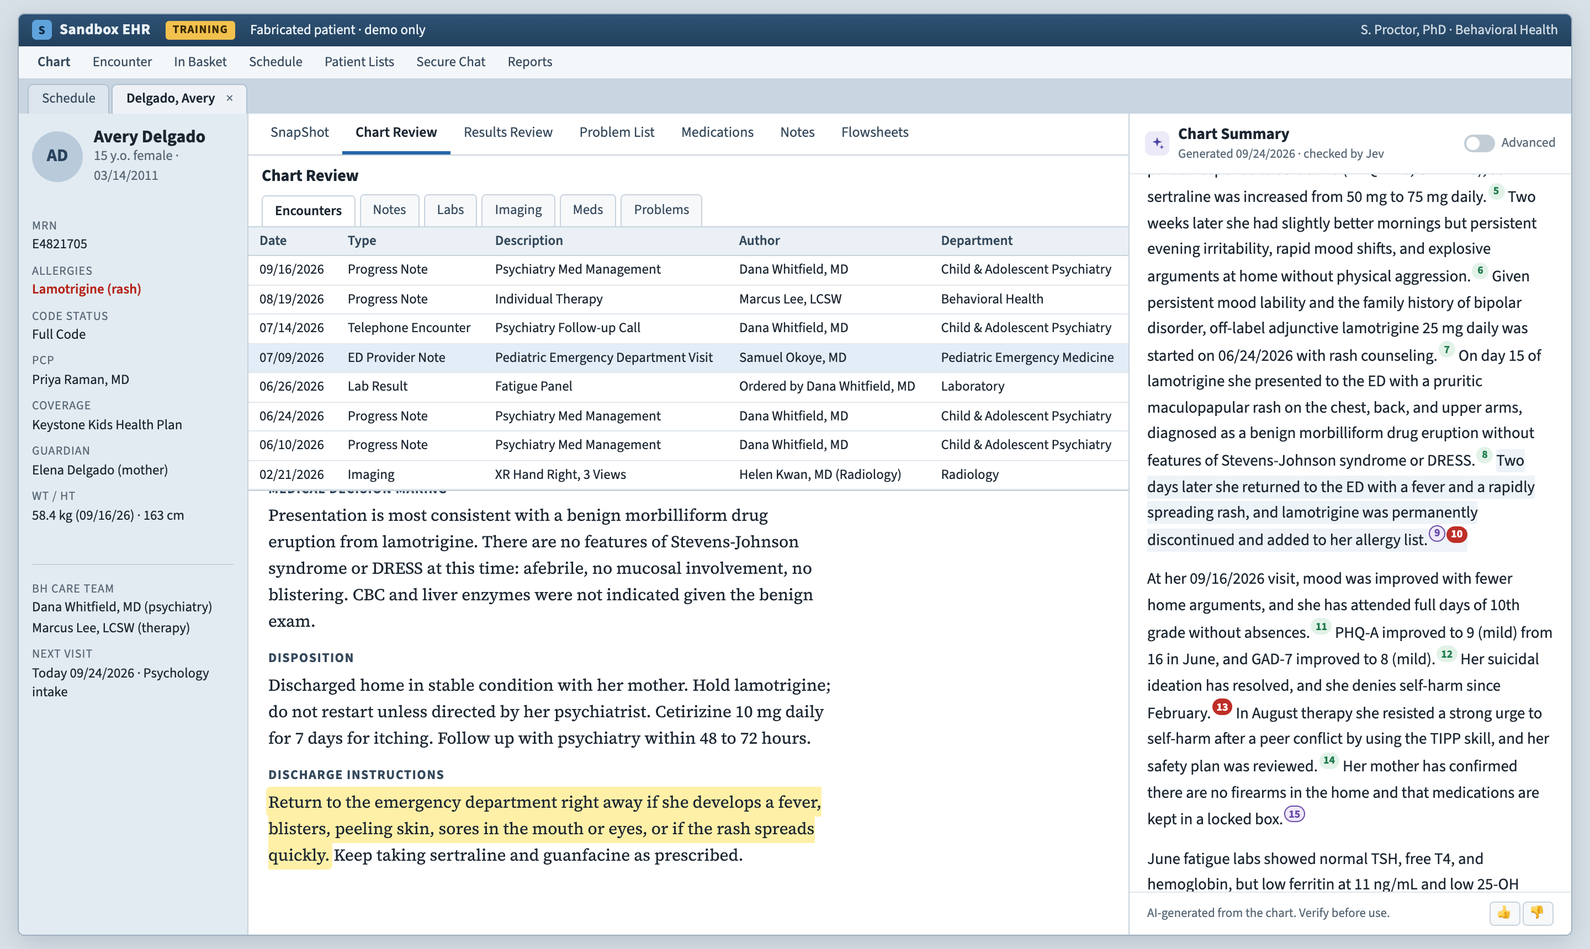
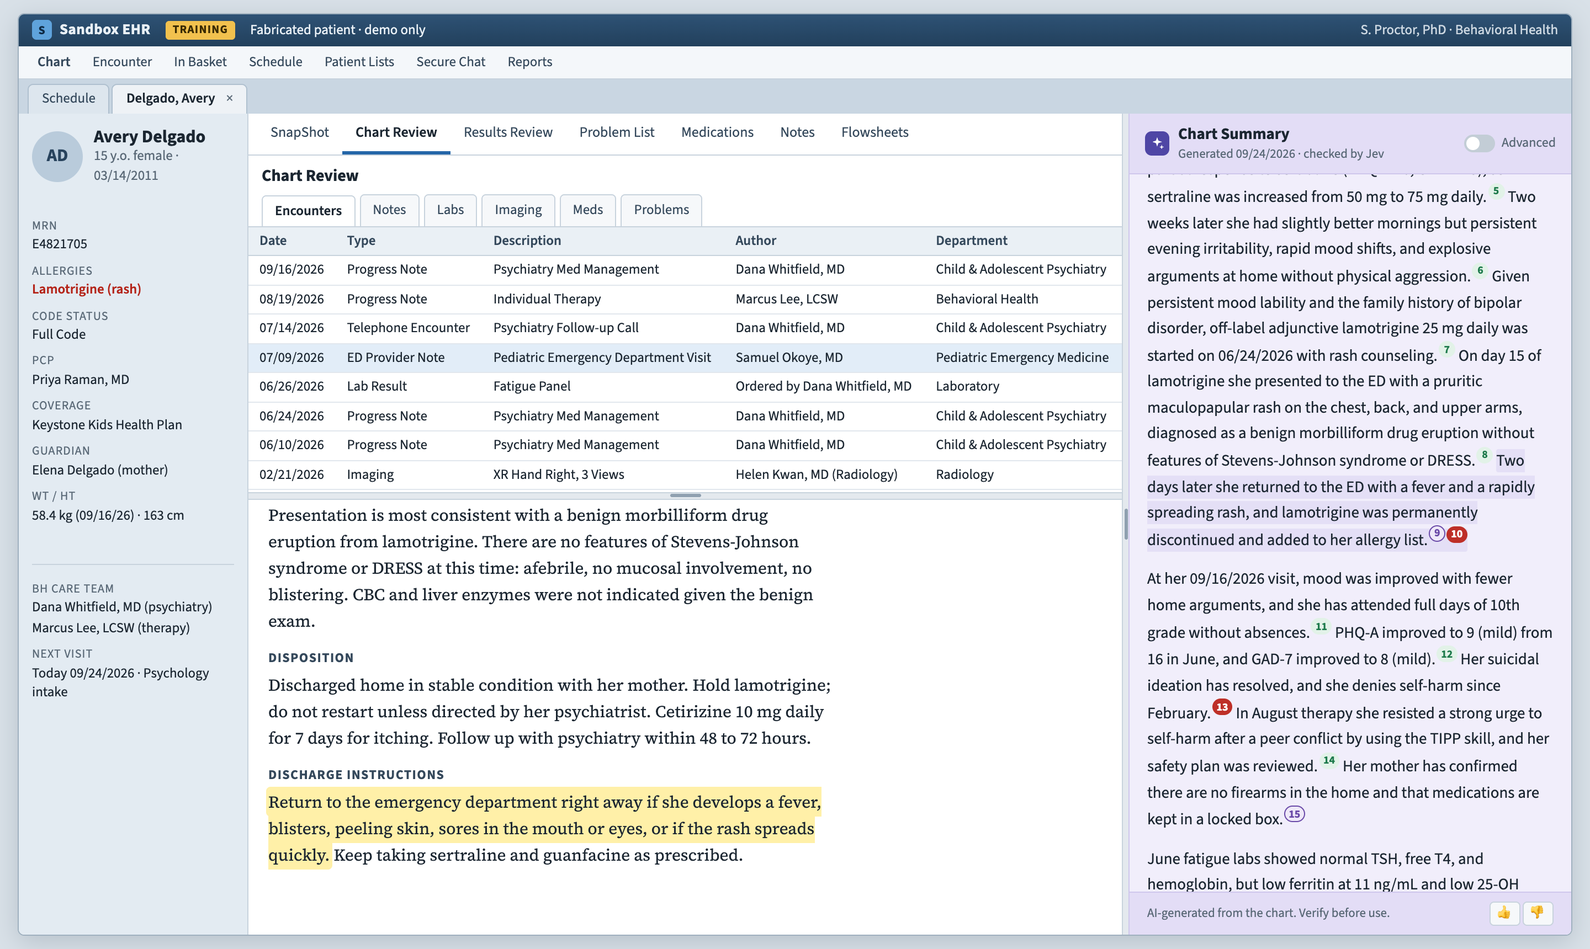
Resizable sidebar and document list; tinted AI summary panel

Changed region(s): [[0.1562, 0.2465, 1.0, 0.986], [0.6875, 0.0924, 1.0, 0.2465]]

diff --git a/index.html b/index.html
@@ -14,7 +14,7 @@
   --desk:#D9E1E8; --ground:#EEF2F6; --surface:#FFFFFF; --panel:#F6F8FA; --story:#E3EBF2; --ink:#1B2631; --muted:#5A6977; --rule:#C8D3DD; --rule2:#E1E7ED;
   --bar:#22405C; --bar2:#2E5275; --bar-ink:#E9F0F6; --tab:#DCE5EE; --accent:#2466A8; --accent-soft:#E2EDF8; --ai:#4F46A5; --ai-soft:#ECEAF8;
   --sup:#1D7A4B; --sup-bg:#E2F2E8; --amb:#9E5F00; --amb-bg:#FCEFD6; --nf:#6A4AA8; --nf-bg:#EEE8F8; --con:#BE2F28; --con-bg:#FBE3E1;
-  --hl:#FFF0A8; --allergy:#B42318;
+  --hl:#FFF0A8; --ai-bg:#F1EEFB; --ai-bg2:#E3DDF6; --ai-rule:#CFC7EC; --sideW:400px; --listH:34%; --allergy:#B42318;
   --sans:"Source Sans 3","Segoe UI",-apple-system,Helvetica,Arial,sans-serif; --serif:"Source Serif 4",Georgia,serif; --mono:"IBM Plex Mono",Menlo,Consolas,monospace;
 }
 html,body{height:100%}
@@ -40,7 +40,19 @@ button:focus-visible,[tabindex]:focus-visible,input:focus-visible{outline:2px so
 .wstab b{margin-left:10px;color:var(--muted);font-weight:400}
 
 /* body grid */
-.work{flex:1;min-height:0;display:grid;grid-template-columns:208px minmax(0,1fr) minmax(330px,400px)}
+.work{flex:1;min-height:0;display:grid;grid-template-columns:208px minmax(0,1fr) 7px var(--sideW)}
+.vsplit{cursor:col-resize;background:linear-gradient(90deg,var(--rule) 0 1px,#E4E9EE 1px 6px,var(--ai-rule) 6px);position:relative;touch-action:none}
+.vsplit::after,.hsplit::after{content:"";position:absolute;left:50%;top:50%;transform:translate(-50%,-50%);border-radius:2px;background:#8FA0B0}
+.vsplit::after{width:3px;height:28px}
+.hsplit{height:7px;flex:none;cursor:row-resize;background:#E4E9EE;border-block:1px solid var(--rule);position:relative;touch-action:none}
+.hsplit::after{width:28px;height:3px}
+.vsplit::before{content:"";position:absolute;inset:0 -5px;z-index:5}
+.hsplit::before{content:"";position:absolute;inset:-5px 0;z-index:5}
+.vsplit:hover,.vsplit.drag,.hsplit:hover,.hsplit.drag{background:var(--accent-soft)}
+.vsplit:hover::after,.vsplit.drag::after,.hsplit:hover::after,.hsplit.drag::after{background:var(--accent)}
+body.resizing{user-select:none}
+body.resizing.col{cursor:col-resize}
+body.resizing.row{cursor:row-resize}
 .story{background:var(--story);border-right:1px solid var(--rule);overflow-y:auto;padding:12px 12px 20px;font-size:12.5px;display:flex;flex-direction:column;gap:10px}
 .pt{display:flex;gap:10px;align-items:center}
 .avatar{width:46px;height:46px;border-radius:50%;background:#B9CBDB;color:#28435D;display:grid;place-items:center;font-weight:700;font-size:16px;flex:none}
@@ -52,7 +64,7 @@ button:focus-visible,[tabindex]:focus-visible,input:focus-visible{outline:2px so
 .allergy{color:var(--allergy);font-weight:600}
 .story .bh{border-top:1px solid var(--rule);padding-top:8px}
 
-.center{min-width:0;display:flex;flex-direction:column;min-height:0;border-right:1px solid var(--rule)}
+.center{min-width:0;display:flex;flex-direction:column;min-height:0}
 .acts{display:flex;gap:0;background:var(--surface);border-bottom:1px solid var(--rule);padding:0 8px;overflow-x:auto;scrollbar-width:none}
 .acts button{padding:8px 12px;font-size:13px;color:#34485B;border-bottom:3px solid transparent;white-space:nowrap}
 .acts button[aria-selected="true"]{border-bottom-color:var(--accent);color:var(--ink);font-weight:600}
@@ -62,7 +74,7 @@ button:focus-visible,[tabindex]:focus-visible,input:focus-visible{outline:2px so
 .subtabs{display:flex;gap:4px;padding:6px 12px 0;border-bottom:1px solid var(--rule);overflow-x:auto;scrollbar-width:none}
 .subtabs button{padding:5px 11px;border:1px solid var(--rule);border-bottom:0;border-radius:4px 4px 0 0;font-size:12.5px;background:var(--panel);color:#34485B;white-space:nowrap}
 .subtabs button[aria-selected="true"]{background:var(--surface);font-weight:600;color:var(--ink);position:relative;top:1px}
-.list{max-height:34%;min-height:110px;overflow:auto;border-bottom:1px solid var(--rule)}
+.list{height:var(--listH);min-height:60px;flex:none;overflow:auto}
 table.grid{border-collapse:collapse;width:100%;font-size:12.5px}
 table.grid th{position:sticky;top:0;background:#EAF0F5;text-align:left;font-weight:600;color:#34485B;padding:4px 10px;border-bottom:1px solid var(--rule);white-space:nowrap}
 table.grid td{padding:4px 10px;border-bottom:1px solid var(--rule2);white-space:nowrap}
@@ -98,8 +110,9 @@ body.adv .segid{display:inline}
 .segkey i{display:inline-block;width:22px;height:11px;border-radius:2px}
 
 /* AI sidebar */
-.side{min-height:0;display:flex;flex-direction:column;background:var(--surface)}
-.sidehead{display:flex;align-items:center;gap:8px;padding:9px 14px;border-bottom:1px solid var(--rule2)}
+.side{min-width:0;min-height:0;display:flex;flex-direction:column;background:var(--ai-bg)}
+.sidehead{display:flex;align-items:center;gap:8px;padding:9px 14px;border-bottom:1px solid var(--ai-rule);background:var(--ai-bg2)}
+.sidehead .spark{background:var(--ai);color:#fff}
 .spark{width:22px;height:22px;border-radius:6px;background:var(--ai-soft);color:var(--ai);display:grid;place-items:center;flex:none}
 .sidehead h3{margin:0;font-size:14.5px}
 .sidehead .gen{color:var(--muted);font-size:11.5px}
@@ -119,7 +132,7 @@ body.adv .segid{display:inline}
 .status button{color:var(--accent);font-weight:600}
 .summary p{margin:0 0 12px;font-size:14.5px;line-height:1.62;max-width:62ch}
 .sent{border-radius:2px;transition:background .15s}
-.sent.hover{background:#EEF3F8}
+.sent.hover{background:#E4DFF6}
 body.hl .sent.w-contradicted{background:var(--con-bg)}
 body.hl .sent.w-not_found{background:var(--nf-bg)}
 body.hl .sent.w-ambiguous,body.hl .sent.w-review{background:var(--amb-bg)}
@@ -138,12 +151,12 @@ sup.c{line-height:0}
 body.adv.chartck .chartchip{display:inline}
 .chartchip.supported{color:var(--sup);border-color:var(--sup)} .chartchip.ambiguous{color:var(--amb);border-color:var(--amb)}
 .chartchip.not_found{color:var(--nf);border-color:var(--nf)} .chartchip.contradicted{color:var(--con);border-color:var(--con)}
-.sidefoot{border-top:1px solid var(--rule2);padding:8px 16px;font-size:11.5px;color:var(--muted);display:flex;gap:8px;align-items:center;flex-wrap:wrap}
+.sidefoot{background:var(--ai-bg2);border-top:1px solid var(--ai-rule);padding:8px 16px;font-size:11.5px;color:var(--muted);display:flex;gap:8px;align-items:center;flex-wrap:wrap}
 .sidefoot .sp{flex:1}
 .fb button{padding:2px 6px;border:1px solid var(--rule);border-radius:4px;background:var(--panel)}
 
 /* advanced drawer */
-.adv-panel{display:none;background:var(--panel);border:1px solid var(--rule2);border-radius:6px;padding:10px 12px;margin-bottom:12px;font-size:12.5px;gap:10px}
+.adv-panel{display:none;background:var(--surface);border:1px solid var(--ai-rule);border-radius:6px;padding:10px 12px;margin-bottom:12px;font-size:12.5px;gap:10px}
 body.adv .adv-panel{display:grid}
 .legend{display:grid;grid-template-columns:auto 1fr auto;gap:4px 8px;align-items:center}
 .legend .n{font-variant-numeric:tabular-nums;color:var(--muted);text-align:right}
@@ -190,7 +203,7 @@ body.adv .advbox{display:grid}
 .btn{border:1px solid var(--accent);color:var(--accent);border-radius:4px;padding:3px 10px;font-weight:600;font-size:12.5px;background:var(--surface)}
 .btn:hover{background:var(--accent-soft)}
 
-@media (max-width:1100px){.work{grid-template-columns:minmax(0,1fr) minmax(320px,380px)}.story{display:none}.ptstrip{display:flex!important}}
+@media (max-width:1100px){.work{grid-template-columns:minmax(0,1fr) 7px var(--sideW)}.story{display:none}.ptstrip{display:flex!important}}
 .ptstrip{display:none;gap:12px;flex-wrap:wrap;align-items:center;padding:6px 12px;background:var(--story);border-bottom:1px solid var(--rule);font-size:12.5px}
 .ptstrip b{font-size:14px}
 @media (max-width:760px){
@@ -201,7 +214,8 @@ body.adv .advbox{display:grid}
   .side{order:-1;border-bottom:1px solid var(--rule)}
   .sidebody{overflow:visible}
   .center{border-right:0}
-  .list{max-height:none}
+  .list{height:auto;max-height:none}
+  .vsplit,.hsplit{display:none}
   .report{overflow:visible}
   .toolbar span:nth-child(n+4){display:none}
   .titlebar .user{display:none}
@@ -230,9 +244,11 @@ body.adv .advbox{display:grid}
         <div class="crhead"><h3 id="crtitle">Chart Review</h3></div>
         <div class="subtabs" role="tablist" id="subtabs"></div>
         <div class="list" id="list"></div>
+        <div class="hsplit" id="hsplit" role="separator" aria-orientation="horizontal" aria-label="Resize document list" tabindex="0"></div>
         <div class="report" id="report" tabindex="-1"></div>
       </div>
     </section>
+    <div class="vsplit" id="vsplit" role="separator" aria-orientation="vertical" aria-label="Resize chart summary" tabindex="0"></div>
     <aside class="side" aria-label="AI chart summary">
       <div class="sidehead">
         <span class="spark" aria-hidden="true"><svg width="14" height="14" viewBox="0 0 24 24" fill="currentColor"><path d="M12 2l1.9 5.6L19.5 9.5l-5.6 1.9L12 17l-1.9-5.6L4.5 9.5l5.6-1.9zM19 14l.9 2.6 2.6.9-2.6.9L19 21l-.9-2.6-2.6-.9 2.6-.9z"/></svg></span>
@@ -409,6 +425,40 @@ document.addEventListener("keydown", e => { if (e.key === "Escape" && !pop.hidde
 document.addEventListener("mousedown", e => { if (!pop.hidden && !pop.contains(e.target) && !e.target.closest(".cite") && !e.target.closest("#nextFlag")) closePop(); });
 addEventListener("resize", () => { if (!pop.hidden && st.open) place(document.querySelector(`.cite[data-c="${st.open}"]`)); });
 $(".sidebody").addEventListener("scroll", () => { if (!pop.hidden && st.open) place(document.querySelector(`.cite[data-c="${st.open}"]`)); });
+
+/* ---------- resizable panes ---------- */
+const root = document.documentElement, work = $(".work"), cr = $(".cr");
+function setSide(px) {
+  const max = work.getBoundingClientRect().width - (innerWidth > 1100 ? 208 : 0) - 7 - 360;
+  px = Math.round(Math.max(300, Math.min(max, px)));
+  root.style.setProperty("--sideW", px + "px"); $("#vsplit").setAttribute("aria-valuenow", px); return px;
+}
+function setList(px) {
+  const max = cr.getBoundingClientRect().height - 180;
+  px = Math.round(Math.max(60, Math.min(max, px)));
+  root.style.setProperty("--listH", px + "px"); $("#hsplit").setAttribute("aria-valuenow", px); return px;
+}
+function drag(handle, axis, apply, key) {
+  handle.addEventListener("pointerdown", e => {
+    e.preventDefault(); handle.setPointerCapture(e.pointerId); handle.classList.add("drag"); document.body.classList.add("resizing", axis === "x" ? "col" : "row");
+    const move = ev => {
+      const v = axis === "x" ? work.getBoundingClientRect().right - ev.clientX - 3 : ev.clientY - $("#list").getBoundingClientRect().top;
+      apply(v); if (!pop.hidden && st.open) place(document.querySelector(`.cite[data-c="${st.open}"]`));
+    };
+    const up = () => { handle.classList.remove("drag"); document.body.classList.remove("resizing", "col", "row"); handle.removeEventListener("pointermove", move); handle.removeEventListener("pointerup", up); handle.removeEventListener("pointercancel", up);
+      store(key, getComputedStyle(root).getPropertyValue(axis === "x" ? "--sideW" : "--listH").trim()); };
+    handle.addEventListener("pointermove", move); handle.addEventListener("pointerup", up); handle.addEventListener("pointercancel", up);
+  });
+  handle.addEventListener("keydown", e => {
+    const d = {ArrowLeft: 24, ArrowRight: -24, ArrowUp: -24, ArrowDown: 24}[e.key]; if (d === undefined) return; e.preventDefault();
+    const cur = axis === "x" ? $(".side").getBoundingClientRect().width : $("#list").getBoundingClientRect().height;
+    store(key, apply(cur + d) + "px");
+  });
+  handle.addEventListener("dblclick", () => { root.style.removeProperty(axis === "x" ? "--sideW" : "--listH"); store(key, ""); });
+}
+drag($("#vsplit"), "x", setSide, "sideW");
+drag($("#hsplit"), "y", setList, "listH");
+{ const w = store("sideW"), h = store("listH"); if (w) root.style.setProperty("--sideW", w); if (h) root.style.setProperty("--listH", h); }
 
 /* ---------- init ---------- */
 $("#gen").textContent = `Generated ${D.today} · checked by Jev`;

diff --git a/template.html b/template.html
@@ -7,7 +7,7 @@
   --desk:#D9E1E8; --ground:#EEF2F6; --surface:#FFFFFF; --panel:#F6F8FA; --story:#E3EBF2; --ink:#1B2631; --muted:#5A6977; --rule:#C8D3DD; --rule2:#E1E7ED;
   --bar:#22405C; --bar2:#2E5275; --bar-ink:#E9F0F6; --tab:#DCE5EE; --accent:#2466A8; --accent-soft:#E2EDF8; --ai:#4F46A5; --ai-soft:#ECEAF8;
   --sup:#1D7A4B; --sup-bg:#E2F2E8; --amb:#9E5F00; --amb-bg:#FCEFD6; --nf:#6A4AA8; --nf-bg:#EEE8F8; --con:#BE2F28; --con-bg:#FBE3E1;
-  --hl:#FFF0A8; --allergy:#B42318;
+  --hl:#FFF0A8; --ai-bg:#F1EEFB; --ai-bg2:#E3DDF6; --ai-rule:#CFC7EC; --sideW:400px; --listH:34%; --allergy:#B42318;
   --sans:"Source Sans 3","Segoe UI",-apple-system,Helvetica,Arial,sans-serif; --serif:"Source Serif 4",Georgia,serif; --mono:"IBM Plex Mono",Menlo,Consolas,monospace;
 }
 html,body{height:100%}
@@ -33,7 +33,19 @@ button:focus-visible,[tabindex]:focus-visible,input:focus-visible{outline:2px so
 .wstab b{margin-left:10px;color:var(--muted);font-weight:400}
 
 /* body grid */
-.work{flex:1;min-height:0;display:grid;grid-template-columns:208px minmax(0,1fr) minmax(330px,400px)}
+.work{flex:1;min-height:0;display:grid;grid-template-columns:208px minmax(0,1fr) 7px var(--sideW)}
+.vsplit{cursor:col-resize;background:linear-gradient(90deg,var(--rule) 0 1px,#E4E9EE 1px 6px,var(--ai-rule) 6px);position:relative;touch-action:none}
+.vsplit::after,.hsplit::after{content:"";position:absolute;left:50%;top:50%;transform:translate(-50%,-50%);border-radius:2px;background:#8FA0B0}
+.vsplit::after{width:3px;height:28px}
+.hsplit{height:7px;flex:none;cursor:row-resize;background:#E4E9EE;border-block:1px solid var(--rule);position:relative;touch-action:none}
+.hsplit::after{width:28px;height:3px}
+.vsplit::before{content:"";position:absolute;inset:0 -5px;z-index:5}
+.hsplit::before{content:"";position:absolute;inset:-5px 0;z-index:5}
+.vsplit:hover,.vsplit.drag,.hsplit:hover,.hsplit.drag{background:var(--accent-soft)}
+.vsplit:hover::after,.vsplit.drag::after,.hsplit:hover::after,.hsplit.drag::after{background:var(--accent)}
+body.resizing{user-select:none}
+body.resizing.col{cursor:col-resize}
+body.resizing.row{cursor:row-resize}
 .story{background:var(--story);border-right:1px solid var(--rule);overflow-y:auto;padding:12px 12px 20px;font-size:12.5px;display:flex;flex-direction:column;gap:10px}
 .pt{display:flex;gap:10px;align-items:center}
 .avatar{width:46px;height:46px;border-radius:50%;background:#B9CBDB;color:#28435D;display:grid;place-items:center;font-weight:700;font-size:16px;flex:none}
@@ -45,7 +57,7 @@ button:focus-visible,[tabindex]:focus-visible,input:focus-visible{outline:2px so
 .allergy{color:var(--allergy);font-weight:600}
 .story .bh{border-top:1px solid var(--rule);padding-top:8px}
 
-.center{min-width:0;display:flex;flex-direction:column;min-height:0;border-right:1px solid var(--rule)}
+.center{min-width:0;display:flex;flex-direction:column;min-height:0}
 .acts{display:flex;gap:0;background:var(--surface);border-bottom:1px solid var(--rule);padding:0 8px;overflow-x:auto;scrollbar-width:none}
 .acts button{padding:8px 12px;font-size:13px;color:#34485B;border-bottom:3px solid transparent;white-space:nowrap}
 .acts button[aria-selected="true"]{border-bottom-color:var(--accent);color:var(--ink);font-weight:600}
@@ -55,7 +67,7 @@ button:focus-visible,[tabindex]:focus-visible,input:focus-visible{outline:2px so
 .subtabs{display:flex;gap:4px;padding:6px 12px 0;border-bottom:1px solid var(--rule);overflow-x:auto;scrollbar-width:none}
 .subtabs button{padding:5px 11px;border:1px solid var(--rule);border-bottom:0;border-radius:4px 4px 0 0;font-size:12.5px;background:var(--panel);color:#34485B;white-space:nowrap}
 .subtabs button[aria-selected="true"]{background:var(--surface);font-weight:600;color:var(--ink);position:relative;top:1px}
-.list{max-height:34%;min-height:110px;overflow:auto;border-bottom:1px solid var(--rule)}
+.list{height:var(--listH);min-height:60px;flex:none;overflow:auto}
 table.grid{border-collapse:collapse;width:100%;font-size:12.5px}
 table.grid th{position:sticky;top:0;background:#EAF0F5;text-align:left;font-weight:600;color:#34485B;padding:4px 10px;border-bottom:1px solid var(--rule);white-space:nowrap}
 table.grid td{padding:4px 10px;border-bottom:1px solid var(--rule2);white-space:nowrap}
@@ -91,8 +103,9 @@ body.adv .segid{display:inline}
 .segkey i{display:inline-block;width:22px;height:11px;border-radius:2px}
 
 /* AI sidebar */
-.side{min-height:0;display:flex;flex-direction:column;background:var(--surface)}
-.sidehead{display:flex;align-items:center;gap:8px;padding:9px 14px;border-bottom:1px solid var(--rule2)}
+.side{min-width:0;min-height:0;display:flex;flex-direction:column;background:var(--ai-bg)}
+.sidehead{display:flex;align-items:center;gap:8px;padding:9px 14px;border-bottom:1px solid var(--ai-rule);background:var(--ai-bg2)}
+.sidehead .spark{background:var(--ai);color:#fff}
 .spark{width:22px;height:22px;border-radius:6px;background:var(--ai-soft);color:var(--ai);display:grid;place-items:center;flex:none}
 .sidehead h3{margin:0;font-size:14.5px}
 .sidehead .gen{color:var(--muted);font-size:11.5px}
@@ -112,7 +125,7 @@ body.adv .segid{display:inline}
 .status button{color:var(--accent);font-weight:600}
 .summary p{margin:0 0 12px;font-size:14.5px;line-height:1.62;max-width:62ch}
 .sent{border-radius:2px;transition:background .15s}
-.sent.hover{background:#EEF3F8}
+.sent.hover{background:#E4DFF6}
 body.hl .sent.w-contradicted{background:var(--con-bg)}
 body.hl .sent.w-not_found{background:var(--nf-bg)}
 body.hl .sent.w-ambiguous,body.hl .sent.w-review{background:var(--amb-bg)}
@@ -131,12 +144,12 @@ sup.c{line-height:0}
 body.adv.chartck .chartchip{display:inline}
 .chartchip.supported{color:var(--sup);border-color:var(--sup)} .chartchip.ambiguous{color:var(--amb);border-color:var(--amb)}
 .chartchip.not_found{color:var(--nf);border-color:var(--nf)} .chartchip.contradicted{color:var(--con);border-color:var(--con)}
-.sidefoot{border-top:1px solid var(--rule2);padding:8px 16px;font-size:11.5px;color:var(--muted);display:flex;gap:8px;align-items:center;flex-wrap:wrap}
+.sidefoot{background:var(--ai-bg2);border-top:1px solid var(--ai-rule);padding:8px 16px;font-size:11.5px;color:var(--muted);display:flex;gap:8px;align-items:center;flex-wrap:wrap}
 .sidefoot .sp{flex:1}
 .fb button{padding:2px 6px;border:1px solid var(--rule);border-radius:4px;background:var(--panel)}
 
 /* advanced drawer */
-.adv-panel{display:none;background:var(--panel);border:1px solid var(--rule2);border-radius:6px;padding:10px 12px;margin-bottom:12px;font-size:12.5px;gap:10px}
+.adv-panel{display:none;background:var(--surface);border:1px solid var(--ai-rule);border-radius:6px;padding:10px 12px;margin-bottom:12px;font-size:12.5px;gap:10px}
 body.adv .adv-panel{display:grid}
 .legend{display:grid;grid-template-columns:auto 1fr auto;gap:4px 8px;align-items:center}
 .legend .n{font-variant-numeric:tabular-nums;color:var(--muted);text-align:right}
@@ -183,7 +196,7 @@ body.adv .advbox{display:grid}
 .btn{border:1px solid var(--accent);color:var(--accent);border-radius:4px;padding:3px 10px;font-weight:600;font-size:12.5px;background:var(--surface)}
 .btn:hover{background:var(--accent-soft)}
 
-@media (max-width:1100px){.work{grid-template-columns:minmax(0,1fr) minmax(320px,380px)}.story{display:none}.ptstrip{display:flex!important}}
+@media (max-width:1100px){.work{grid-template-columns:minmax(0,1fr) 7px var(--sideW)}.story{display:none}.ptstrip{display:flex!important}}
 .ptstrip{display:none;gap:12px;flex-wrap:wrap;align-items:center;padding:6px 12px;background:var(--story);border-bottom:1px solid var(--rule);font-size:12.5px}
 .ptstrip b{font-size:14px}
 @media (max-width:760px){
@@ -194,7 +207,8 @@ body.adv .advbox{display:grid}
   .side{order:-1;border-bottom:1px solid var(--rule)}
   .sidebody{overflow:visible}
   .center{border-right:0}
-  .list{max-height:none}
+  .list{height:auto;max-height:none}
+  .vsplit,.hsplit{display:none}
   .report{overflow:visible}
   .toolbar span:nth-child(n+4){display:none}
   .titlebar .user{display:none}
@@ -223,9 +237,11 @@ body.adv .advbox{display:grid}
         <div class="crhead"><h3 id="crtitle">Chart Review</h3></div>
         <div class="subtabs" role="tablist" id="subtabs"></div>
         <div class="list" id="list"></div>
+        <div class="hsplit" id="hsplit" role="separator" aria-orientation="horizontal" aria-label="Resize document list" tabindex="0"></div>
         <div class="report" id="report" tabindex="-1"></div>
       </div>
     </section>
+    <div class="vsplit" id="vsplit" role="separator" aria-orientation="vertical" aria-label="Resize chart summary" tabindex="0"></div>
     <aside class="side" aria-label="AI chart summary">
       <div class="sidehead">
         <span class="spark" aria-hidden="true"><svg width="14" height="14" viewBox="0 0 24 24" fill="currentColor"><path d="M12 2l1.9 5.6L19.5 9.5l-5.6 1.9L12 17l-1.9-5.6L4.5 9.5l5.6-1.9zM19 14l.9 2.6 2.6.9-2.6.9L19 21l-.9-2.6-2.6-.9 2.6-.9z"/></svg></span>
@@ -402,6 +418,40 @@ document.addEventListener("keydown", e => { if (e.key === "Escape" && !pop.hidde
 document.addEventListener("mousedown", e => { if (!pop.hidden && !pop.contains(e.target) && !e.target.closest(".cite") && !e.target.closest("#nextFlag")) closePop(); });
 addEventListener("resize", () => { if (!pop.hidden && st.open) place(document.querySelector(`.cite[data-c="${st.open}"]`)); });
 $(".sidebody").addEventListener("scroll", () => { if (!pop.hidden && st.open) place(document.querySelector(`.cite[data-c="${st.open}"]`)); });
+
+/* ---------- resizable panes ---------- */
+const root = document.documentElement, work = $(".work"), cr = $(".cr");
+function setSide(px) {
+  const max = work.getBoundingClientRect().width - (innerWidth > 1100 ? 208 : 0) - 7 - 360;
+  px = Math.round(Math.max(300, Math.min(max, px)));
+  root.style.setProperty("--sideW", px + "px"); $("#vsplit").setAttribute("aria-valuenow", px); return px;
+}
+function setList(px) {
+  const max = cr.getBoundingClientRect().height - 180;
+  px = Math.round(Math.max(60, Math.min(max, px)));
+  root.style.setProperty("--listH", px + "px"); $("#hsplit").setAttribute("aria-valuenow", px); return px;
+}
+function drag(handle, axis, apply, key) {
+  handle.addEventListener("pointerdown", e => {
+    e.preventDefault(); handle.setPointerCapture(e.pointerId); handle.classList.add("drag"); document.body.classList.add("resizing", axis === "x" ? "col" : "row");
+    const move = ev => {
+      const v = axis === "x" ? work.getBoundingClientRect().right - ev.clientX - 3 : ev.clientY - $("#list").getBoundingClientRect().top;
+      apply(v); if (!pop.hidden && st.open) place(document.querySelector(`.cite[data-c="${st.open}"]`));
+    };
+    const up = () => { handle.classList.remove("drag"); document.body.classList.remove("resizing", "col", "row"); handle.removeEventListener("pointermove", move); handle.removeEventListener("pointerup", up); handle.removeEventListener("pointercancel", up);
+      store(key, getComputedStyle(root).getPropertyValue(axis === "x" ? "--sideW" : "--listH").trim()); };
+    handle.addEventListener("pointermove", move); handle.addEventListener("pointerup", up); handle.addEventListener("pointercancel", up);
+  });
+  handle.addEventListener("keydown", e => {
+    const d = {ArrowLeft: 24, ArrowRight: -24, ArrowUp: -24, ArrowDown: 24}[e.key]; if (d === undefined) return; e.preventDefault();
+    const cur = axis === "x" ? $(".side").getBoundingClientRect().width : $("#list").getBoundingClientRect().height;
+    store(key, apply(cur + d) + "px");
+  });
+  handle.addEventListener("dblclick", () => { root.style.removeProperty(axis === "x" ? "--sideW" : "--listH"); store(key, ""); });
+}
+drag($("#vsplit"), "x", setSide, "sideW");
+drag($("#hsplit"), "y", setList, "listH");
+{ const w = store("sideW"), h = store("listH"); if (w) root.style.setProperty("--sideW", w); if (h) root.style.setProperty("--listH", h); }
 
 /* ---------- init ---------- */
 $("#gen").textContent = `Generated ${D.today} · checked by Jev`;

diff --git a/README.md b/README.md
@@ -16,6 +16,7 @@ TypeSafe AI checks each citation against the source it points to, and the supers
 
 **Click a citation once** for a preview: the cited passage, Jev's verdict, and its probabilities.
 **Click it again** to open the full source in Chart Review, with the cited passage highlighted.
+Drag the bars between panes to resize the summary sidebar and the document list (double-click a bar to reset).
 **Advanced** (toggle in the sidebar header) adds a legend with counts and filters, a confidence threshold, a
 whole-chart check that tells a wrong citation from a made-up fact, the passage Jev would have cited, and the answer key
 for the planted errors.
